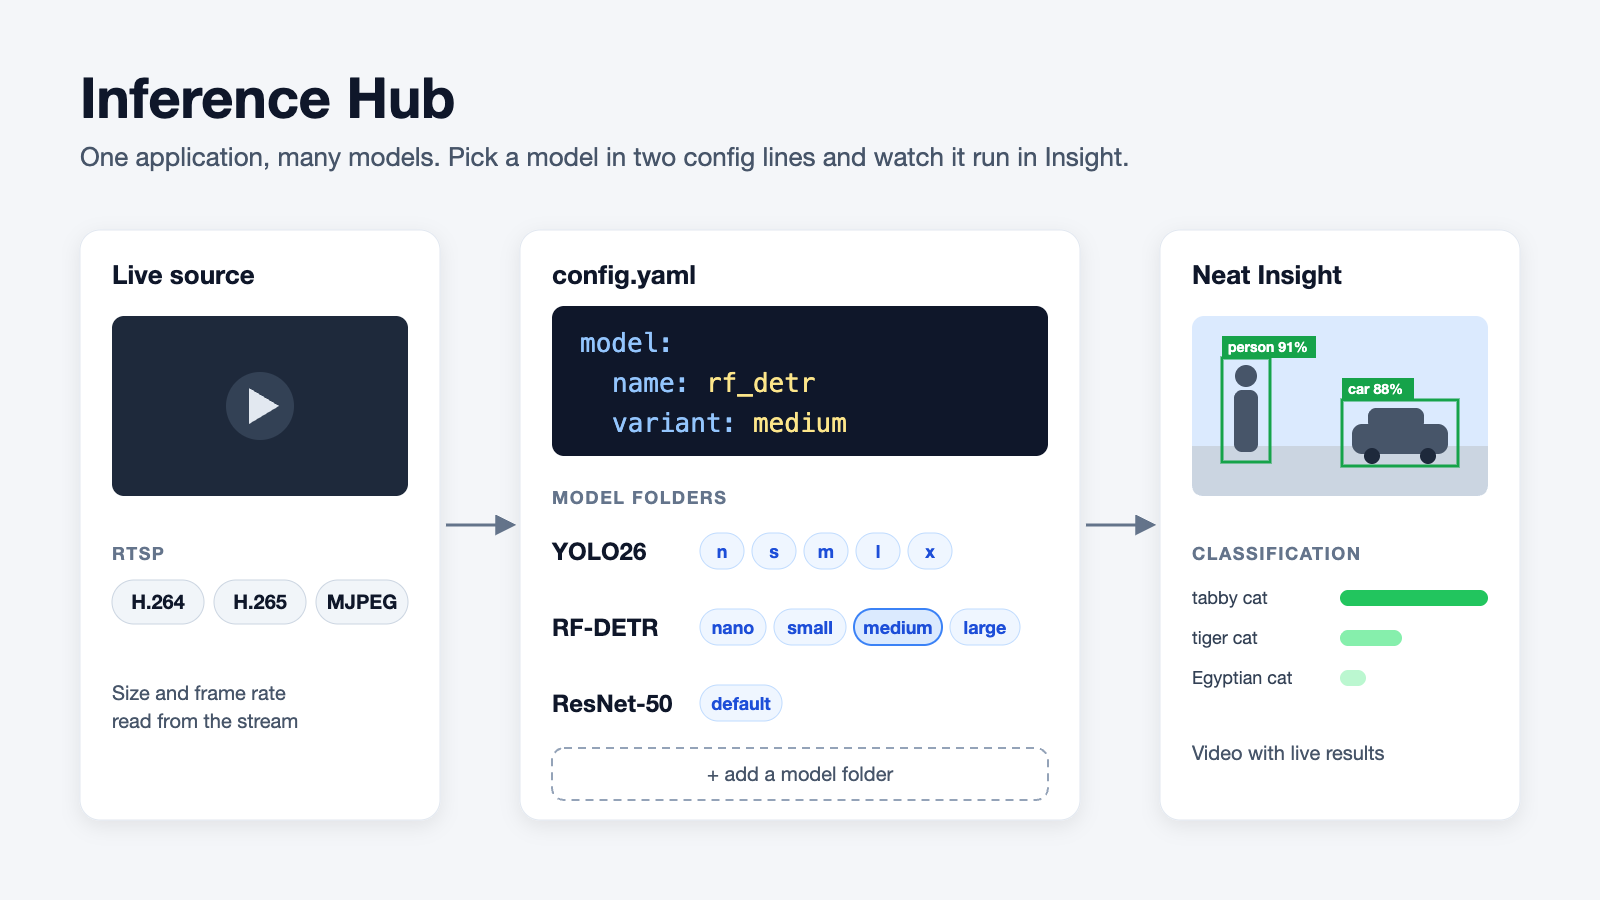
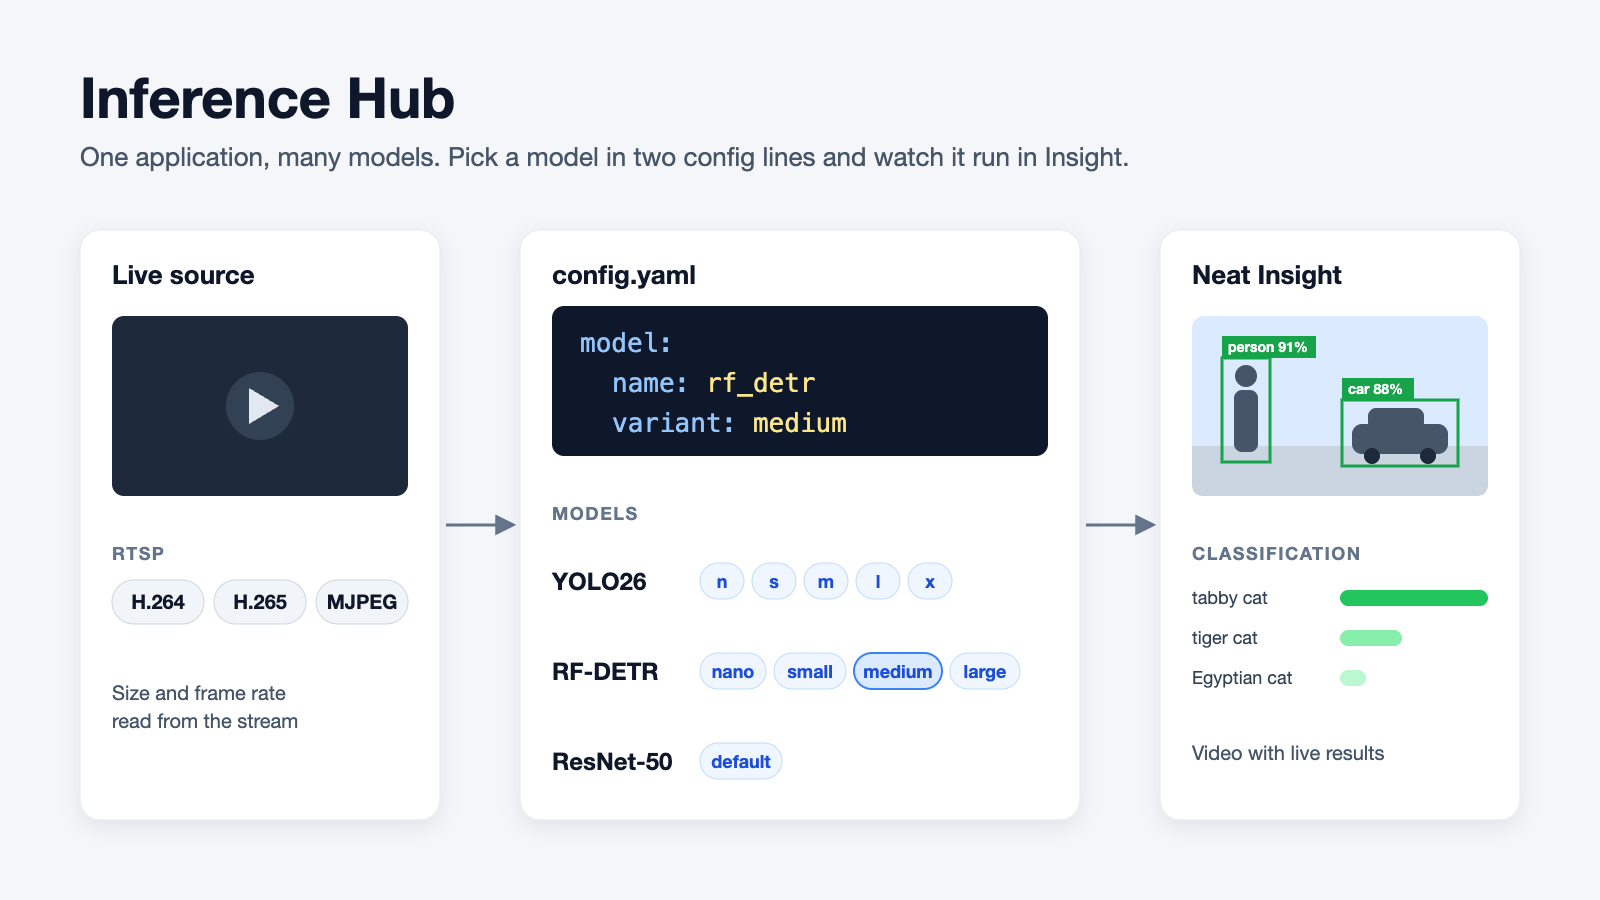
docs(model-hub): drop the add-a-folder claim
Each model needs its own preprocessing, postprocessing, and
orchestration code, so a new model is not a drop-in folder.

Changed region(s): [[0.3438, 0.5911, 0.625, 0.8711], [0.3438, 0.5289, 0.4688, 0.6533]]

diff --git a/examples/model-hub/inference-hub/README.md b/examples/model-hub/inference-hub/README.md
@@ -16,7 +16,7 @@
 
 Run a YOLO26, RF-DETR, or ResNet-50 model from the Model Registry on an RTSP stream or MIPI camera and view the video and results in Insight.
 
-`main.py` owns the pipeline: it decodes the source once, forwards the video to Insight, and passes the newest decoded frames to the selected model. A 4-frame queue replaces stale frames when inference falls behind. Each folder under `src/python/hub_models/` holds one model family: `config.yaml` names its labels, Model Registry build, components, and variants, and `model.py` builds the Neat model and turns its output into Insight metadata. To add a model, add a folder with the same two files.
+`main.py` owns the pipeline: it decodes the source once, forwards the video to Insight, and passes the newest decoded frames to the selected model. A 4-frame queue replaces stale frames when inference falls behind. Each folder under `src/python/hub_models/` holds one model family: `config.yaml` names its labels, Model Registry build, components, and variants, and `model.py` holds that model's own preprocessing, postprocessing, and orchestration, such as RF-DETR's two stages.
 
 ## Preview
 
